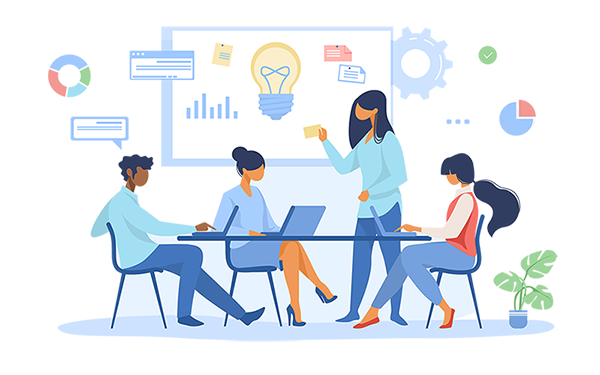
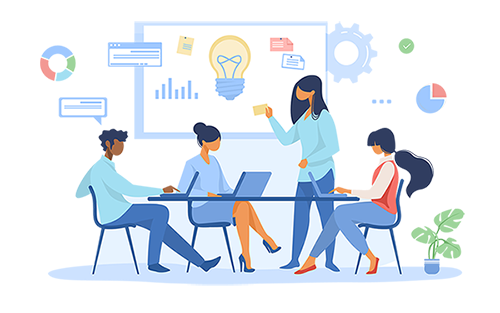
Halaman Index

diff --git a/public/assets/css/style.css b/public/assets/css/style.css
@@ -7,50 +7,34 @@ html    {
     position: relative;
 }
 
-
-.persetujuan-kanan {
-    color: #154c9b;
-}
-
-.persetujuan-kanan h2 {
-    margin-top: 10%;
-}
-
 .persetujuan-kiri {
-    color: #154c9b;
+    color: #204f8f;
     position: relative;
 }
 
+.persetujuan-kiri h2 {
+    text-align: center;
+    transform: translateY(60px);
+}
+
+.persetujuan-kiri .periode {
+    margin-top: 20px;
+}
+
+.persetujuan-kiri .tanggal {
+    margin-bottom: 20px;
+}
+
 .persetujuan-kiri img {
-    transform: translate(30px,80px);
-    z-index: -1;
-}
-
-
-.ketentuan  {
-    width: 500px;
-    margin-top: 10px;
-    box-sizing: border-box;
-    border: 2px solid #154c9b;
-    border-radius: 15px;
-    padding : 20px;
-}
-
-.ketentuan h5 {
-    font-style: italic;
-}
-
-
-.form-check small {
-    font-style: italic;
-    font-weight: 500;
-
+    transform: translate(70px,60px);
+    
 }
 
 .hitungmundur {
     overflow: hidden;
     width: 600px;
-    margin-top: 50px;
+    margin-top: 20px;
+    margin-left: 100px;
     z-index: 2;
 
 }
@@ -63,13 +47,13 @@ html    {
     float: left;
     width: 80px;
     height: 70px;
-    border: 2px solid #154c9b;
+    border: 2px solid #204f8f;
 
 }
 
 .hitungmundur .box p {
     text-align: center;
-    color: #154c9b;
+    color: #204f8f;
     font-weight: 500;
 }
 
@@ -81,6 +65,35 @@ html    {
 
 .hitungmundur .box .satuan-teks {
     font-size: 16px;
+}
+
+.persetujuan-kanan {
+    color: #204f8f;
+}
+
+.persetujuan-kanan h4 {
+    margin-top: 15%;
+}
+
+.persetujuan-kanan a {
+    background-color: #204f8f;
+    border: 1px solid #204f8f;
+}
+
+
+.ketentuan  {
+    width: 500px;
+    margin-top: 10px;
+    box-sizing: border-box;
+    border: 2px solid #204f8f;
+    border-radius: 15px;
+    padding : 20px;
+}
+
+.form-check small {
+    font-style: italic;
+    font-weight: 500;
+
 }
 
 

diff --git a/resources/views/pages/sumbang-saran/index.blade.php b/resources/views/pages/sumbang-saran/index.blade.php
@@ -25,41 +25,43 @@
                 <!-- Content Card -->
                 <div class="card">
                     <div class="card-body">
-                        <table id="sumbang-saran" class="table table-striped table-bordered" style="width:100%">
-                            <thead>
-                                <tr>
-                                    <th>NO</th>
-                                    <th>NIK</th>
-                                    <th>NAMA</th>
-                                    <th>JUDUL</th>
-                                    <th>BAGIAN</th>
-                                    <th>Aksi</th>
-                                </tr>
-                            </thead>
-                            <tbody>
-                                @foreach ($sumbangsaran as $ss)
-                                <tr>
-                                    <td>{{$loop->iteration}}</td>
-                                    <td>{{$ss->nik}}</td>
-                                    <td>{{$ss->nama}}</td>
-                                    <td>{{$ss->judul}}</td>
-                                    <td>{{$ss->bagian}}</td>
-                                    <td>
-                                        <a href="" class="btn btn-info" role="button">
-                                            <i class="fas fa-eye"></i>
-                                        </a>
-                                        <form action="{{url('sumbang-saran',$ss->id)}}" method="POST" class="d-inline">
-                                            @csrf
-                                            @method('delete')
-                                            <button href="" class="btn btn-danger" type="submit">
-                                                <i class="fas fa-trash"></i>
-                                            </button>
-                                        </form>
-                                    </td>
-                                </tr>
-                                @endforeach
-                            </tbody>
-                        </table>
+                        <div class="table-responsive-sm">
+                            <table id="sumbang-saran" class="table table-striped table-bordered" style="width:100%">
+                                <thead>
+                                    <tr>
+                                        <th>NO</th>
+                                        <th>NIK</th>
+                                        <th>NAMA</th>
+                                        <th>JUDUL</th>
+                                        <th>BAGIAN</th>
+                                        <th>Aksi</th>
+                                    </tr>
+                                </thead>
+                                <tbody>
+                                    @foreach ($sumbangsaran as $ss)
+                                    <tr>
+                                        <td>{{$loop->iteration}}</td>
+                                        <td>{{$ss->nik}}</td>
+                                        <td>{{$ss->nama}}</td>
+                                        <td>{{$ss->judul}}</td>
+                                        <td>{{$ss->bagian}}</td>
+                                        <td>
+                                            <a href="" class="btn btn-info" role="button">
+                                                <i class="fas fa-eye"></i>
+                                            </a>
+                                            <form action="{{url('sumbang-saran',$ss->id)}}" method="POST" class="d-inline">
+                                                @csrf
+                                                @method('delete')
+                                                <button href="" class="btn btn-danger" type="submit">
+                                                    <i class="fas fa-trash"></i>
+                                                </button>
+                                            </form>
+                                        </td>
+                                    </tr>
+                                    @endforeach
+                                </tbody>
+                            </table>
+                        </div>
                     </div>
                 </div>
             </div>

diff --git a/resources/views/index.blade.php b/resources/views/index.blade.php
@@ -8,26 +8,29 @@
     <!-- Bootstrap CSS -->
     <link rel="stylesheet" href="https://stackpath.bootstrapcdn.com/bootstrap/4.4.1/css/bootstrap.min.css" integrity="sha384-Vkoo8x4CGsO3+Hhxv8T/Q5PaXtkKtu6ug5TOeNV6gBiFeWPGFN9MuhOf23Q9Ifjh" crossorigin="anonymous">
     <link rel="stylesheet" href="{{url('assets/css/style.css')}}">
-    <link rel="stylesheet" href="https://stackpath.bootstrapcdn.com/font-awesome/4.7.0/css/font-awesome.min.css">
+    <link rel="stylesheet" href="https://cdnjs.cloudflare.com/ajax/libs/font-awesome/5.13.0/css/all.min.css">
     <title>Sumbang Saran</title>
   </head>
   <body>
     <div class="container-fluid">
-      <div class="row">
-        <div class="col-12 float-right">
+      <div class="row justify-content-between nav-persetujuan">
+        <div class="col-12 ">
           <ul class="nav float-right">
             <li class="nav-item">
-              <a href="{{url('/login')}}" class="btn btn-danger mt-2 font-weight-bold">Login sebagai Admin</a>
+              <a href="{{url('/login')}}" class="btn btn-danger mt-2 font-weight-bold"><i class="fas fa-unlock-alt"></i> Login</a> 
             </li>
           </ul>
         </div>
       </div>
+      </div>
         <div class="row justify-content-center no-gutters persetujuan">
             <div class="col-md-6 col-sm-12 persetujuan-kiri">
+              <h2 class="text-center">Sumbang Saran Karyawan</h2>
               <img src="{{url('assets/img/banner-persetujuan.png')}}" alt=" Responsive Image" class="img-fluid">
 
                 <div class="hitungmundur">
-                  <h5>Periode Sumbang Saran : 24 April 2020 - 1 Mei 2020</h5>
+                  <h5 class="periode">Periode Sumbang Saran : </h5>
+                  <h5 class="font-italic font-weight-bold tanggal">24 April 2020 - 1 Mei 2020</h5>
                   <p class="waktu-tersisa">Waktu tersisa :</p>
 
                   <div class="box">
@@ -50,8 +53,8 @@
 
             </div>
 
-            <div class="col-md-6 col-sm-12 text-center persetujuan-kanan float-right">
-              <h2 class="text-center">Syarat & Ketentuan</h2>
+            <div class="col-md-6 col-sm-12 text-center persetujuan-kanan">
+              <h4 class="text-center">Syarat & Ketentuan</h4>
               <div class="row justify-content-center">
               <div class="ketentuan text-left">
                       <li>Sebelum menggunakan fitur ini kita awali dengan basmallah</li>
@@ -66,7 +69,7 @@
                   <input type="checkbox" class="form-check-input mt-2" id="persetujuan">
                   <label for="persetujuan" class="form-check-label"> <small class="text-muted">Saya telah membaca dan memahami syarat & ketentuan diatas</small></label>
               </div>
-              <a href="{{url('/sumbang-saran')}}" class="btn btn-warning d-block mx-auto font-weight-bold setuju" style="width: 100px;">Setuju</a>
+              <a href="{{url('/input')}}" class="btn btn-primary d-block mx-auto font-weight-bold setuju" style="width: 100px;">Setuju</a>
           </div>
         </div>
     </div>

diff --git a/resources/views/includes/sidebar.blade.php b/resources/views/includes/sidebar.blade.php
@@ -1,6 +1,6 @@
 <aside class="main-sidebar sidebar-dark-primary elevation-4">
     <!-- Brand Logo -->
-    <a href="admin.html" class="brand-link">
+    <a href="{{url('/')}}" class="brand-link">
       <i class="ml-3 fas fa-box-open"></i>
       <span class="brand-text font-weight-light">Sumbang Saran</span>
     </a>
